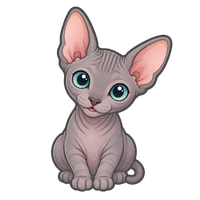
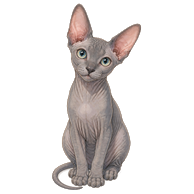
Canva pictures in watercolour anime style
Map scenery, grey Coco (happy and wave poses), Adele and Lucía story
portraits, yo/nosotras pictures and the Unit 1 beach banner. Adele's
drawn colours now follow her picture (red hair, black blazer). Pictures
not made yet keep their code drawings.

Changed region(s): [[0.2474, 0.0, 0.866, 0.9897]]

diff --git a/src/art/Picture.tsx b/src/art/Picture.tsx
@@ -511,7 +511,32 @@ const resolve = (name: string): JSX.Element | undefined => {
 /** Is there a real drawing for this name (not the "?" fallback)? */
 export const hasPicture = (name: string): boolean => Boolean(resolve(name));
 
+/**
+ * Pictures drawn in Canva (cartoon sticker style, same as Coco), in public/art/.
+ * Where a Canva picture exists it is used; otherwise the code drawing below is.
+ * Flags, numbers and day letters always use the code drawings, which are exact.
+ */
+export const CANVA_ART = new Set<string>([
+  // drawn in Canva (watercolour anime style) — the rest are still drawn in code
+  'balloon', 'bell', 'bench', 'boat', 'cafe', 'city', 'cloud', 'fish', 'flower', 'fountain', 'house', 'iceberg',
+  'kite', 'lightning', 'mountain', 'palm', 'plane', 'school', 'sea', 'shell', 'tree', 'umbrella',
+  'wave', 'p-yo', 'p-nosotras',
+]);
+
 export const Picture = ({ name, size = 72 }: { name?: string; size?: number }) => {
+  if (name && CANVA_ART.has(name)) {
+    return (
+      <img
+        src={`${import.meta.env.BASE_URL}art/${name}.png`}
+        width={size}
+        height={size}
+        alt=""
+        aria-hidden="true"
+        draggable={false}
+        className="canva-art"
+      />
+    );
+  }
   let body: JSX.Element | undefined = name ? resolve(name) : undefined;
   if (!body) body = shapes.question;
   return (

diff --git a/src/content/stories/cast.ts b/src/content/stories/cast.ts
@@ -3,7 +3,7 @@ import type { Look } from '../types';
 /** The characters from her teacher's texts, drawn the same way in every story. */
 export const CAST: Record<string, Look> = {
   Mateo: { skin: '#e9b48a', hair: '#3b2a20', shirt: '#4b9fe1' },
-  Lucía: { skin: '#f6cba4', hair: '#7a4a2a', shirt: '#f08aab', long: true },
+  Lucía: { skin: '#f6cba4', hair: '#7a4a2a', shirt: '#f08aab', long: true, pic: 'lucia' },
   Carlos: { skin: '#d9a07a', hair: '#1f1a17', shirt: '#58cc02' },
   Elena: { skin: '#c98c64', hair: '#1f1a17', shirt: '#8b5cf6', long: true },
   Sofía: { skin: '#f9d3b4', hair: '#e0b04a', shirt: '#ff9f1c', long: true },
@@ -11,7 +11,7 @@ export const CAST: Record<string, Look> = {
   Jean: { skin: '#f3c8a8', hair: '#d9b25a', shirt: '#2b4c7e' },
   Jiwon: { skin: '#f3d0b0', hair: '#141414', shirt: '#ffc93c' },
   Ana: { skin: '#eebd96', hair: '#5b3a29', shirt: '#e4572e', long: true, glasses: true, grownUp: true },
-  Adele: { skin: '#f6cba4', hair: '#6b4428', shirt: '#ff6b35', long: true },
+  Adele: { skin: '#f6cba4', hair: '#b3202a', shirt: '#26262e', long: true, pic: 'adele' },
 };
 
 export const castOf = (...names: string[]): Record<string, Look> =>

diff --git a/src/art/Avatar.tsx b/src/art/Avatar.tsx
@@ -1,7 +1,18 @@
 import type { Look } from '../content/types';
 
 /** A friendly round face for a story character, drawn from a few colours. */
-export const Avatar = ({ look, size = 44, talking = false }: { look: Look; size?: number; talking?: boolean }) => (
+export const Avatar = ({ look, size = 44, talking = false }: { look: Look; size?: number; talking?: boolean }) =>
+  look.pic ? (
+    <img
+      src={`${import.meta.env.BASE_URL}cast/${look.pic}.png`}
+      width={size}
+      height={size}
+      alt=""
+      aria-hidden="true"
+      draggable={false}
+      className={`avatar-pic${talking ? ' talking' : ''}`}
+    />
+  ) : (
   <svg viewBox="0 0 100 100" width={size} height={size} role="img" aria-hidden="true">
     <circle cx="50" cy="50" r="48" fill={talking ? '#fff3e6' : '#f4efe8'} />
     {look.long && <path d="M22 52 Q20 86 34 92 H66 Q80 86 78 52z" fill={look.hair} />}
@@ -26,4 +37,4 @@ export const Avatar = ({ look, size = 44, talking = false }: { look: Look; size?
       <path d="M44 57 q6 5 12 0" stroke="#3b3a4a" strokeWidth="2.5" fill="none" strokeLinecap="round" />
     )}
   </svg>
-);
+  );

diff --git a/src/art/Coco.tsx b/src/art/Coco.tsx
@@ -1,15 +1,21 @@
 /**
  * Coco — our own mascot: a grey Canadian Sphynx kitten, drawn in Canva
- * (cartoon sticker style, one picture per pose, in public/coco/).
+ * (watercolour anime style, pictures in public/coco/).
  * The pictures are cached with the app, so Coco works offline too.
  */
 export type CocoMood = 'happy' | 'cheer' | 'think' | 'oops' | 'wave' | 'read' | 'sleep' | 'dance';
 
 export const COCO_MOODS: CocoMood[] = ['happy', 'cheer', 'think', 'oops', 'wave', 'read', 'sleep', 'dance'];
 
+/** Poses drawn so far; the other moods borrow the closest one until theirs is made. */
+const POSE: Record<CocoMood, 'happy' | 'wave'> = {
+  happy: 'happy', wave: 'wave', cheer: 'wave', dance: 'wave',
+  think: 'happy', oops: 'happy', read: 'happy', sleep: 'happy',
+};
+
 export const Coco = ({ mood = 'happy', size = 110 }: { mood?: CocoMood; size?: number }) => (
   <img
-    src={`${import.meta.env.BASE_URL}coco/${mood}.png`}
+    src={`${import.meta.env.BASE_URL}coco/${POSE[mood]}.png`}
     width={size}
     height={size}
     alt="Coco"

diff --git a/src/screens/Path.tsx b/src/screens/Path.tsx
@@ -242,7 +242,16 @@ export const Path = ({
           className="land"
           style={{ background: `linear-gradient(180deg, ${WORLDS[unit.id]?.ground ?? '#fff'} 0%, ${WORLDS[unit.id]?.ground ?? '#fff'}00 100%)` }}
         >
-          <div className="unit-banner" style={{ background: unit.colour }}>
+          <div
+            className={`unit-banner${WORLDS[unit.id]?.banner ? ' has-art' : ''}`}
+            style={
+              WORLDS[unit.id]?.banner
+                ? {
+                    background: `linear-gradient(90deg, ${unit.colour} 38%, ${unit.colour}cc 55%, ${unit.colour}00 85%), url(${import.meta.env.BASE_URL}banners/${WORLDS[unit.id]!.banner}) right center / cover no-repeat, ${unit.colour}`,
+                  }
+                : { background: unit.colour }
+            }
+          >
             <div>
               <div className="eyebrow">Unit {unit.number}</div>
               <h2>{unit.title}</h2>

diff --git a/src/art/Scenery.tsx b/src/art/Scenery.tsx
@@ -170,9 +170,9 @@ const S: Record<string, JSX.Element> = {
 export const scenery = (name: string): JSX.Element | undefined => S[name];
 
 /** Each unit's little world: a soft ground colour and the things growing beside the road. */
-export const WORLDS: Record<string, { ground: string; props: string[] }> = {
+export const WORLDS: Record<string, { ground: string; props: string[]; banner?: string }> = {
   u0: { ground: '#f3ecff', props: ['abc', 'flower', 'tree', 'flower', 'abc'] },
-  u1: { ground: '#fff2dc', props: ['palm', 'umbrella', 'shell', 'boat', 'palm'] },
+  u1: { ground: '#fff2dc', props: ['palm', 'umbrella', 'shell', 'boat', 'palm'], banner: 'u1.jpg' },
   u2: { ground: '#e9f8f3', props: ['house', 'tree', 'fountain', 'city', 'tree'] },
   u3: { ground: '#eaf4ff', props: ['tree', 'bench', 'kite', 'balloon', 'tree'] },
   u4: { ground: '#f1efff', props: ['mountain', 'lightning', 'cloud', 'mountain', 'lightning'] },

diff --git a/src/styles.css b/src/styles.css
@@ -753,3 +753,12 @@ body {
 .level-bar { position: relative; display: block; height: 9px; border-radius: 999px; background: #e9e3da; overflow: visible; }
 .level-bar i { display: block; height: 100%; border-radius: 999px; }
 .level-bar em { position: absolute; top: -3px; width: 3px; height: 15px; border-radius: 2px; background: var(--ink-soft); opacity: 0.55; }
+
+/* Canva pictures have a white background: multiply makes it disappear on light backgrounds */
+.canva-art { object-fit: contain; user-select: none; -webkit-user-drag: none; }
+
+/* Canva portraits for story characters: a round face crop */
+.avatar-pic { border-radius: 50%; object-fit: cover; background: #f4efe8; box-shadow: 0 0 0 2px #fff; flex: none; }
+.avatar-pic.talking { box-shadow: 0 0 0 3px #ff9f1c; }
+.unit-banner.has-art::after { display: none; }
+.unit-banner.has-art .banner-side .tips-btn { backdrop-filter: blur(2px); }

diff --git a/src/art/morePictures.tsx b/src/art/morePictures.tsx
@@ -39,7 +39,7 @@ const Arrow = ({ from, to, y = 20 }: { from: number; to: number; y?: number }) =
   </g>
 );
 
-const ME = { shirt: '#ff6b35', hair: '#6b4428', long: true };
+const ME = { shirt: '#26262e', hair: '#b3202a', long: true, tie: true };
 
 export const PEOPLE: Record<string, JSX.Element> = {
   'p-yo': (

diff --git a/src/content/types.ts b/src/content/types.ts
@@ -122,6 +122,8 @@ export type Look = {
   skin: string;
   hair: string;
   shirt: string;
+  /** A drawn portrait in public/cast/ (Canva). Without one, the face is drawn in code. */
+  pic?: string;
   long?: boolean;
   glasses?: boolean;
   grownUp?: boolean;
